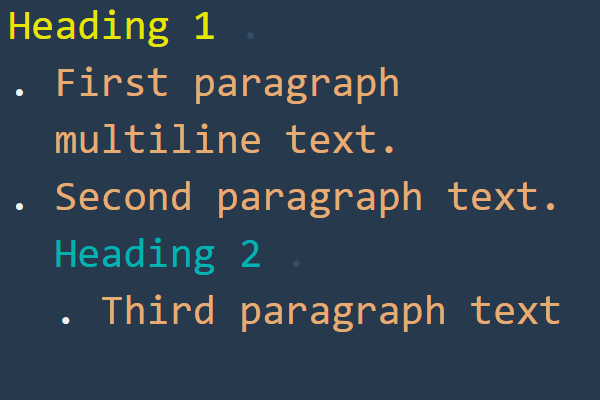
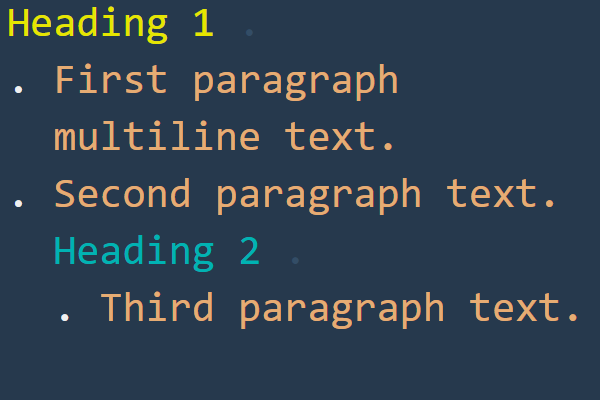
Bugfix

diff --git a/README.md b/README.md
@@ -19,5 +19,5 @@ and leading two spaces defines second level. Third level will be 4 spaces
 and up to 10 spaces for a maximum nesting level 5). Paragraphs are marked
 with dot-space, effectively saving one empty line used in markdown:
 
-<img src="https://raw.githubusercontent.com/grigoryvp/vscode-language-xi/master/doc/md_to_xi_src.png" height="256">
-<img src="https://raw.githubusercontent.com/grigoryvp/vscode-language-xi/master/doc/md_to_xi_dst.png" height="256">
+<img src="https://raw.githubusercontent.com/grigoryvp/vscode-language-xi/master/doc/md_to_xi_src.png" width="256">
+<img src="https://raw.githubusercontent.com/grigoryvp/vscode-language-xi/master/doc/md_to_xi_dst.png" width="256">

diff --git a/doc/md_to_xi_src.md b/doc/md_to_xi_src.md
@@ -4,4 +4,4 @@ multiline text.
 
 Second paragraph text.
 ## Heading 2
-Third paragraph text
+Third paragraph text.
